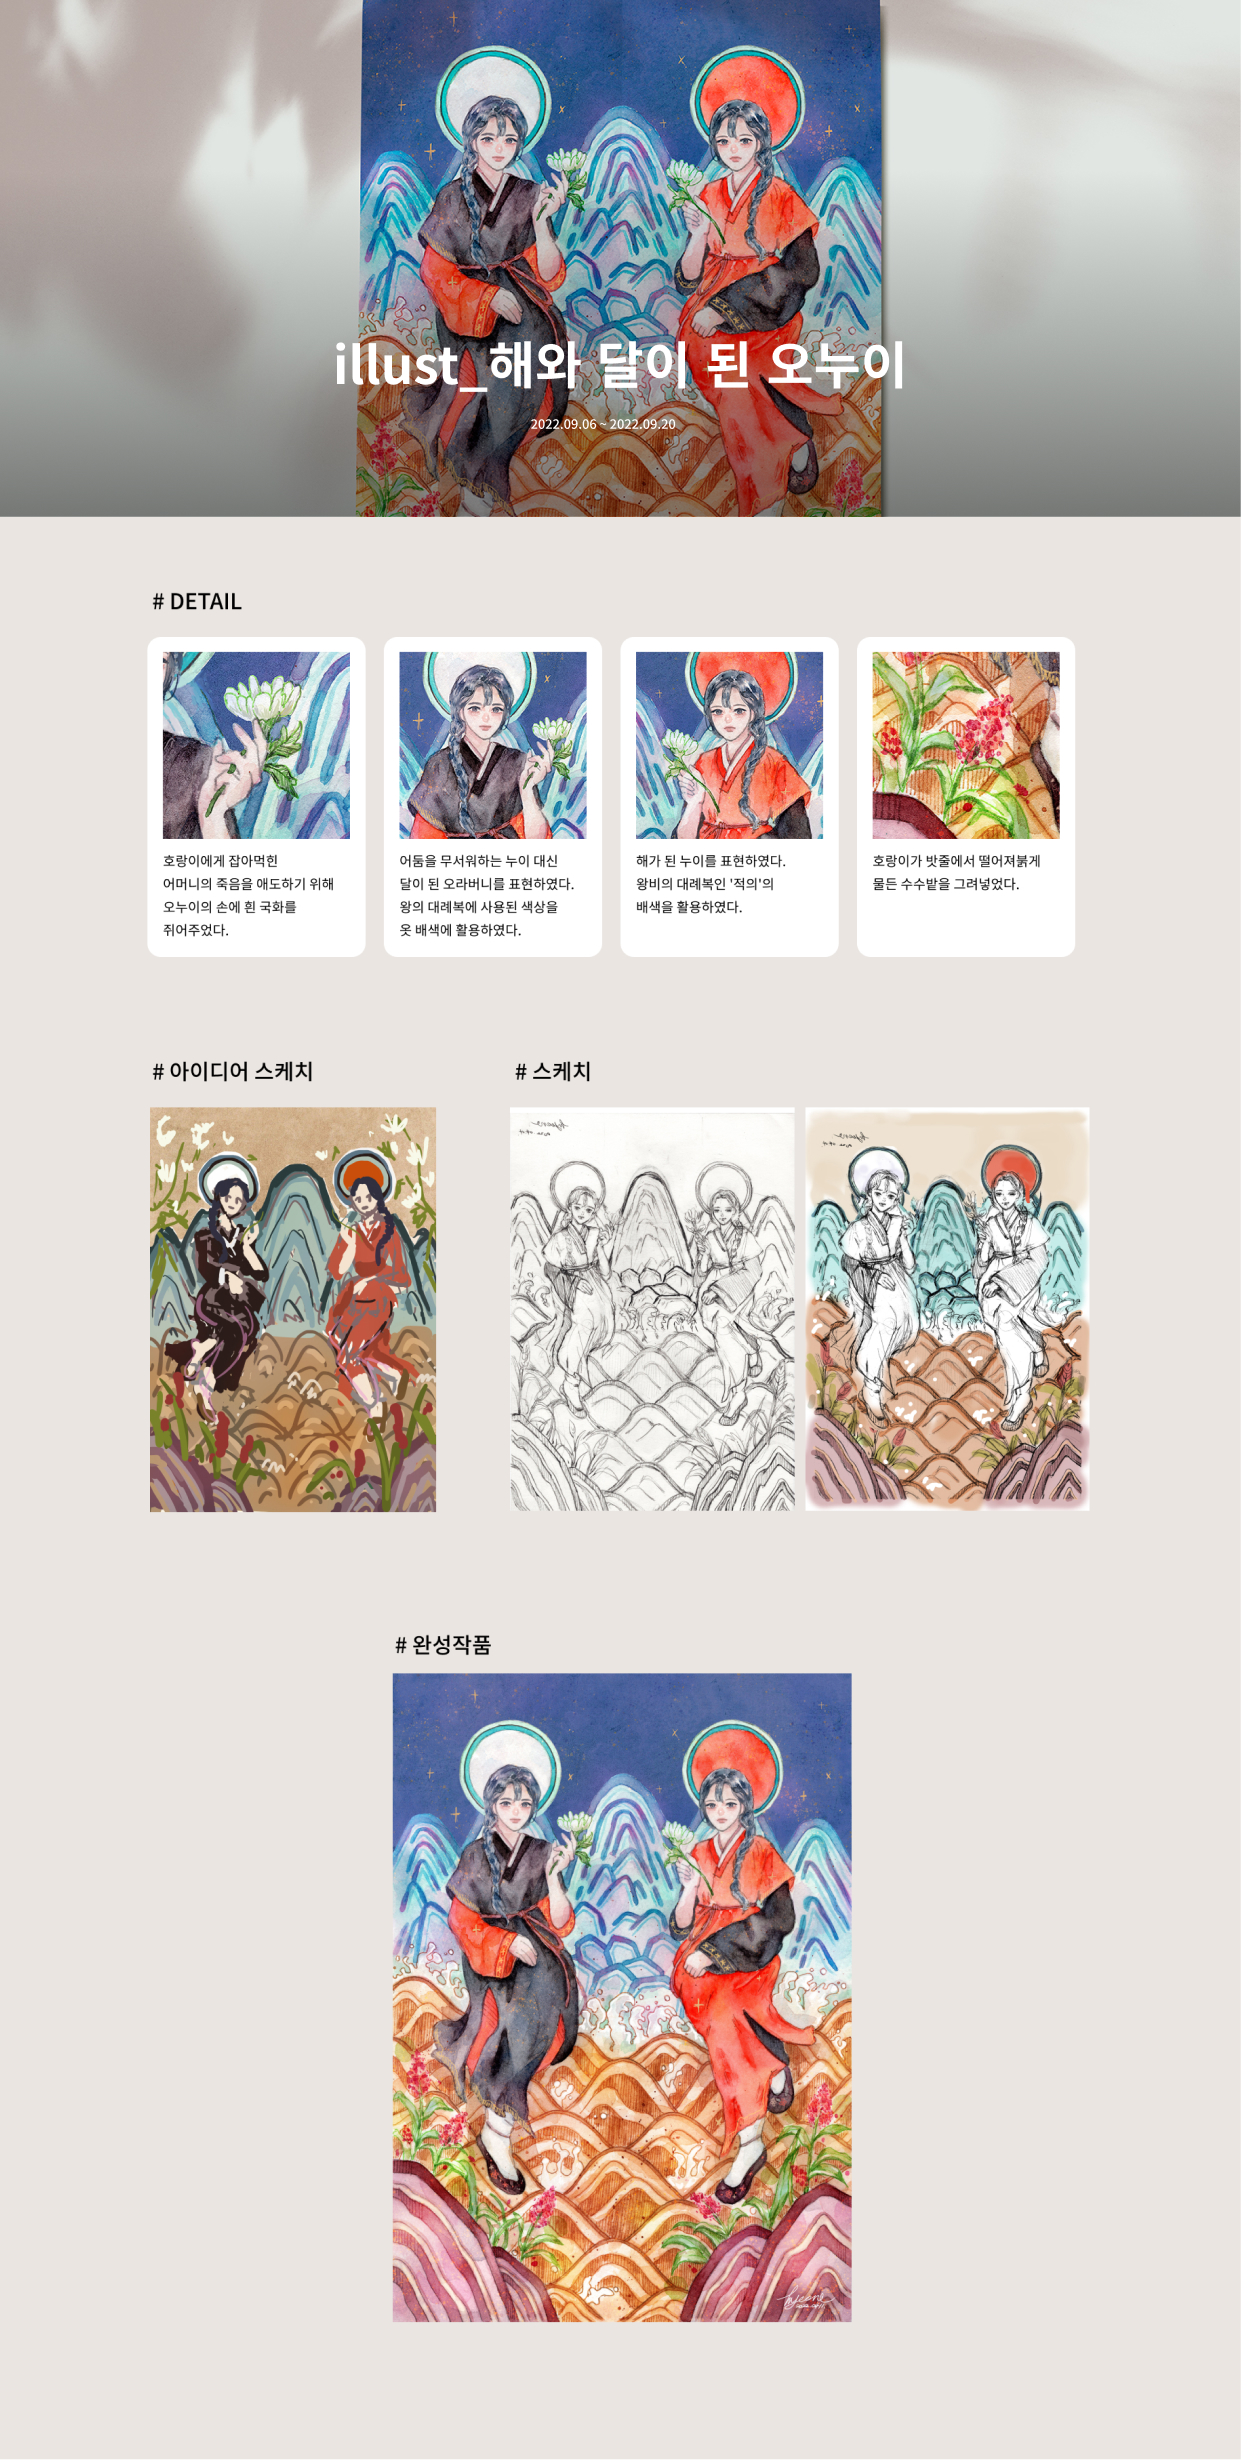
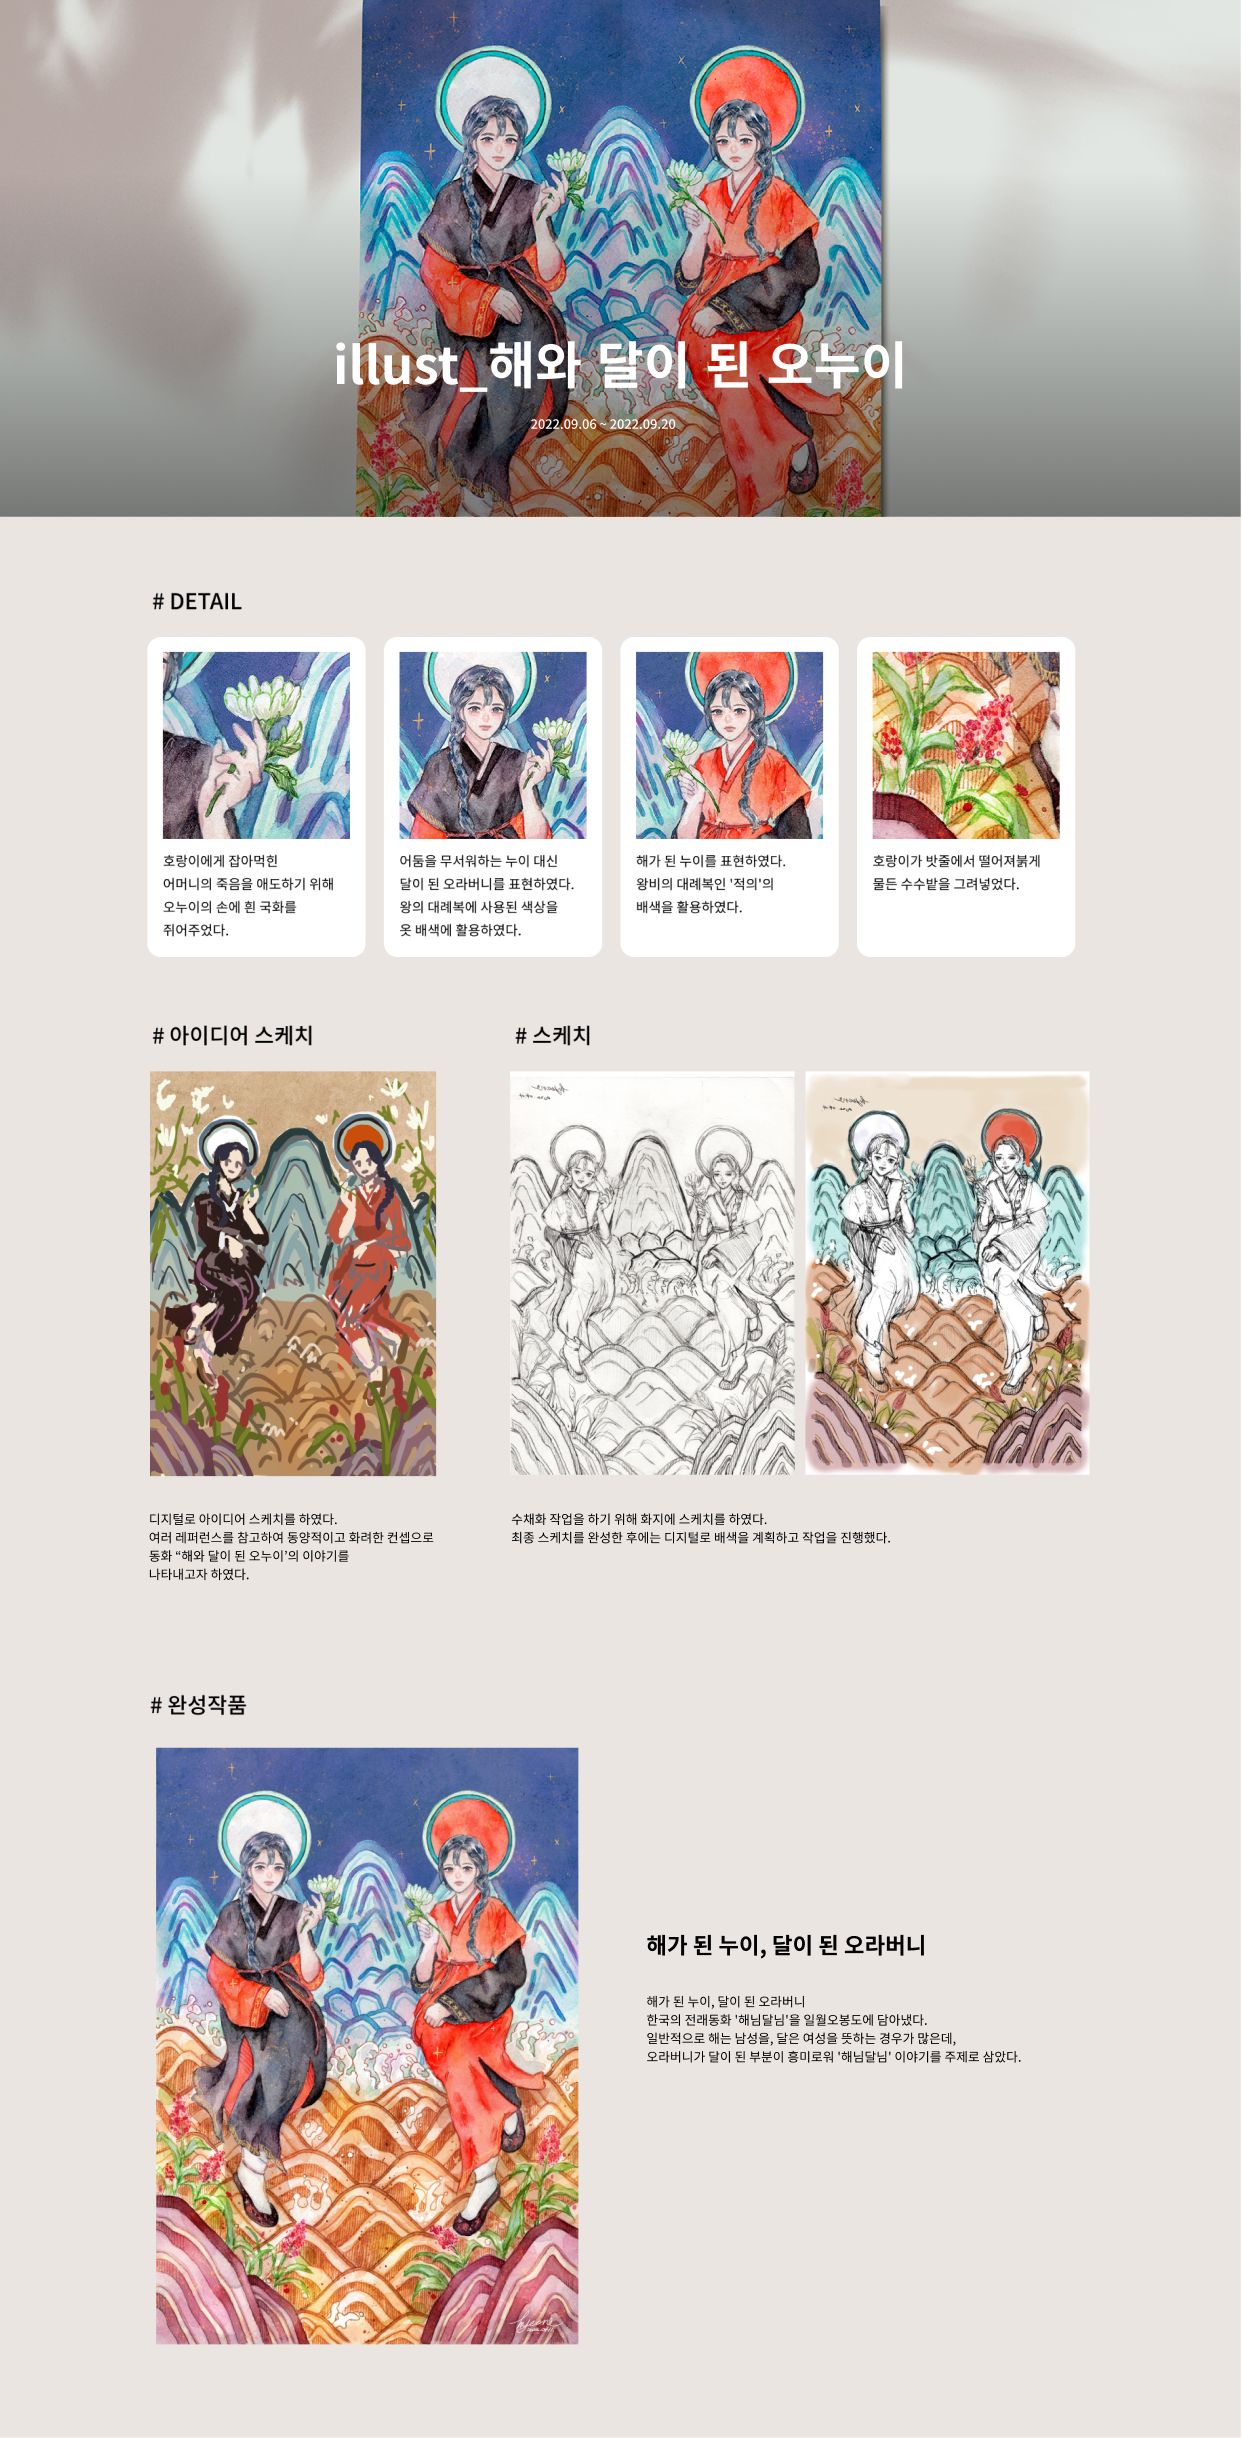
video tag add
mp4 github NOT upload

Changed region(s): [[0.1224, 0.2182, 0.8873, 0.9664], [0.2754, 0.0312, 0.7343, 0.2182], [0.7037, 0.2494, 0.8567, 0.4053]]

diff --git a/index.html b/index.html
@@ -121,7 +121,7 @@
             오누이의 어머니의 죽음을 애도하기 위해 오누이의 손에 흰국화를 쥐어주었다.
           </p>
           <ul class="tag">
-            <li class="tag__list">Adobe XD</li>
+            <li class="tag__list">Watercolor</li>
             <li class="tag__list">Photoshop</li>
           </ul>
           <a href="#popup_illust">자세히 보기 ></a>
@@ -132,7 +132,7 @@
       </section>
       <section class="motion" id="motion">
         <div class="motion__visual">
-          <a href="#popup_motion"><div class="zoomin"></div></a>
+          <a href="#popup_video"><div class="zoomin"></div></a>
         </div>
         <div class="motion__txt">
           <h2>앱 광고영상 <span class="gray">Motion Graphic</span></h2>
@@ -146,7 +146,12 @@
             <li class="tag__list">Premier rush</li>
             <li class="tag__list">illustrator</li>
           </ul>
+
           <a href="#popup_motion">자세히 보기 ></a>
+          <br />
+          <br />
+          <br />
+          <a href="#popup_video">작업영상 보기 ></a>
         </div>
       </section>
       <div class="artworks" id="graphics">
@@ -154,17 +159,18 @@
           <ul>
             <a href="#popup1"><li class="artworks__box artworks__top--luka"></li></a>
             <a href="#popup2"><li class="artworks__box artworks__top--jeju"></li></a>
-            <a href="#popup3"><li class="artworks__box artworks__top--tiger"></li></a>
+            <li class="artworks__box artworks__top--tiger"></li>
             <a href="#popup4"><li class="artworks__box artworks__top--sun"></li></a>
-            <a href="#popup5"><li class="artworks__box artworks__top--summer"></li></a>
+            <li class="artworks__box artworks__top--summer"></li>
           </ul>
         </div>
         <div class="artworks__bottom">
           <ul>
-            <a href="#popup6"><li class="artworks__box artworks__bottom--event"></li></a>
+            <li class="artworks__box artworks__bottom--event"></li>
             <a href="#popup7"><li class="artworks__box artworks__bottom--castellevent"></li></a>
             <a href="#popup8"><li class="artworks__box artworks__bottom--castellins"></li></a>
-            <a href="#popup9"><li class="artworks__box artworks__bottom--andrew"></li></a>
+
+            <li class="artworks__box artworks__bottom--andrew"></li>
           </ul>
         </div>
         <div class="bg_line"></div>
@@ -217,8 +223,15 @@
       <div class="popup_motion__content">
         <a href="#motion" class="popup_motion__close">&times;</a>
         <section class="modal">
-          <img src="img/pop_illust.jpg" alt="img" />
+          <img src="img/pop_motion.jpg" alt="img" />
         </section>
+      </div>
+    </div>
+
+    <div class="pop popup_video" id="popup_video">
+      <div class="popup_video__content">
+        <a href="#motion" class="popup_video__close">&times;</a>
+        <video src="src/motion_220621.mp4" type="video/mp4" controls></video>
       </div>
     </div>
 
@@ -235,52 +248,52 @@
       <div class="popup2__content">
         <a href="#graphics" class="popup2__close">&times;</a>
         <section class="modal">
-          <img src="img/pop_luka.png" alt="img" />
+          <img src="img/pop_jeju.jpg" alt="img" />
         </section>
       </div>
     </div>
 
-    <div class="pop popup3" id="popup3">
+    <!-- <div class="pop popup3" id="popup3">
       <div class="popup3__content">
         <a href="#graphics" class="popup3__close">&times;</a>
         <section class="modal">
-          <img src="img/pop_luka.png" alt="img" />
+          <img src="img/pop_jeju.jpg" alt="img" />
         </section>
       </div>
-    </div>
+    </div> -->
 
     <div class="pop popup4" id="popup4">
       <div class="popup4__content">
         <a href="#graphics" class="popup4__close">&times;</a>
         <section class="modal">
-          <img src="img/pop_luka.png" alt="img" />
+          <img src="img/pop_illust.jpg" alt="img" />
         </section>
       </div>
     </div>
 
-    <div class="pop popup5" id="popup5">
+    <!-- <div class="pop popup5" id="popup5">
       <div class="popup5__content">
         <a href="#graphics" class="popup5__close">&times;</a>
         <section class="modal">
-          <img src="img/pop_luka.png" alt="img" />
+          <img src="img/pop_jeju.jpg" alt="img" />
         </section>
       </div>
-    </div>
+    </div> -->
 
-    <div class="pop popup6" id="popup6">
+    <!-- <div class="pop popup6" id="popup6">
       <div class="popup6__content">
         <a href="#graphics" class="popuup6__close">&times;</a>
         <section class="modal">
-          <img src="img/pop_luka.png" alt="img" />
+          <img src="img/pop_castellevent.jpg" alt="img" />
         </section>
       </div>
-    </div>
+    </div> -->
 
     <div class="pop popup7" id="popup7">
       <div class="popup7__content">
         <a href="#graphics" class="popup7__close">&times;</a>
         <section class="modal">
-          <img src="img/pop_luka.png" alt="img" />
+          <img src="img/pop_castellevent.jpg" alt="img" />
         </section>
       </div>
     </div>
@@ -289,19 +302,19 @@
       <div class="popup8__content">
         <a href="#graphics" class="popup8__close">&times;</a>
         <section class="modal">
-          <img src="img/pop_luka.png" alt="img" />
+          <img src="img/pop_castellins.jpg" alt="img" />
         </section>
       </div>
     </div>
 
-    <div class="pop popup9" id="popup9">
+    <!-- <div class="pop popup9" id="popup9">
       <div class="popup9__content">
         <a href="#graphics" class="popup9__close">&times;</a>
         <section class="modal">
-          <img src="img/pop_luka.png" alt="img" />
+          <img src="img/pop_jeju.jpg" alt="img" />
         </section>
       </div>
-    </div>
+    </div> -->
   </body>
   <script src="https://unpkg.co/gsap@3/dist/gsap.min.js"></script>
   <script src="src/script.js"></script>

diff --git a/css/style.css b/css/style.css
@@ -97,8 +97,8 @@ a:hover {
   .profile__skills {
     margin-bottom: 10rem;
   }
-  .profile__visual {
-    margin-bottom: 40rem;
+  .profilevisual {
+    margin-bottom: 10rem;
   }
   .market,
 .illust,
@@ -164,6 +164,7 @@ a:hover {
 .popup_uiux,
 .popup_illust,
 .popup_motion,
+.popup_video,
 .popup1,
 .popup2,
 .popup3,
@@ -186,6 +187,7 @@ a:hover {
 .popup_uiux:target,
 .popup_illust:target,
 .popup_motion:target,
+.popup_video:target,
 .popup1:target,
 .popup2:target,
 .popup3:target,
@@ -201,6 +203,7 @@ a:hover {
 .popup_uiux__content,
 .popup_illust__content,
 .popup_motion__content,
+.popup_video__content,
 .popup1__content,
 .popup2__content,
 .popup3__content,
@@ -213,7 +216,7 @@ a:hover {
   width: 76vw;
   height: 80vh;
   margin: 10vh auto;
-  background-color: #fff;
+  background-color: #000;
   box-shadow: 0 2rem 4rem rgba(0, 0, 0, 0.2);
   border-radius: 10px;
   overflow-y: scroll;
@@ -222,6 +225,7 @@ a:hover {
 .popup_uiux__content img,
 .popup_illust__content img,
 .popup_motion__content img,
+.popup_video__content img,
 .popup1__content img,
 .popup2__content img,
 .popup3__content img,
@@ -236,9 +240,29 @@ a:hover {
   align-items: flex-start;
   justify-content: center;
 }
+.popup_uiux__content video,
+.popup_illust__content video,
+.popup_motion__content video,
+.popup_video__content video,
+.popup1__content video,
+.popup2__content video,
+.popup3__content video,
+.popup4__content video,
+.popup5__content video,
+.popup6__content video,
+.popup7__content video,
+.popup8__content video,
+.popup9__content video {
+  width: 94%;
+  margin: 0 auto;
+  display: flex;
+  align-items: center;
+  justify-content: center;
+}
 .popup_uiux__close,
 .popup_illust__close,
 .popup_motion__close,
+.popup_video__close,
 .popup1__close,
 .popup2__close,
 .popup3__close,
@@ -273,6 +297,7 @@ body {
   margin: 0;
   padding: 0;
   box-sizing: border-box;
+  transition: background 1s ease;
   width: 100vw;
   scroll-behavior: smooth;
 }
@@ -670,7 +695,7 @@ body {
   height: 32rem;
   position: relative;
   left: 14%;
-  animation: rolling-right 100s linear infinite;
+  animation: rolling-right 130s linear infinite;
   will-change: transform;
   white-space: nowrap;
 }
@@ -699,7 +724,7 @@ body {
 .artworks__bottom {
   width: 200rem;
   height: 32rem;
-  animation: rolling-left 100s linear infinite;
+  animation: rolling-left 130s linear infinite;
   will-change: transform;
   white-space: nowrap;
 }
@@ -749,7 +774,7 @@ body {
   background-size: contain;
   background-image: url(../img/contactme.svg);
   margin-top: -32rem;
-  animation: text-scrolling 14s linear infinite;
+  animation: text-scrolling 30s linear infinite;
   will-change: transform;
   white-space: nowrap;
 }

diff --git a/scss/style.scss b/scss/style.scss
@@ -17,7 +17,7 @@ body {
   margin: 0;
   padding: 0;
   box-sizing: border-box;
-  // transition: background 1s ease;
+  transition: background 1s ease;
   width: 100vw;
   scroll-behavior: smooth;
 }
@@ -417,7 +417,7 @@ body {
     position: relative;
     left: 14%;
 
-    animation: rolling-right 100s linear infinite;
+    animation: rolling-right 130s linear infinite;
     will-change: transform;
     // position: relative;
     white-space: nowrap;
@@ -451,7 +451,7 @@ body {
     width: 200rem;
     height: 32rem;
 
-    animation: rolling-left 100s linear infinite;
+    animation: rolling-left 130s linear infinite;
     will-change: transform;
     // position: relative;
     white-space: nowrap;
@@ -507,7 +507,7 @@ body {
     margin-top: -32rem;
 
     // position: absolute;
-    animation: text-scrolling 14s linear infinite;
+    animation: text-scrolling 30s linear infinite;
     will-change: transform;
     // position: relative;
     white-space: nowrap;

diff --git a/scss/pages/_popup.scss b/scss/pages/_popup.scss
@@ -1,6 +1,7 @@
 .popup_uiux,
 .popup_illust,
 .popup_motion,
+.popup_video,
 .popup1,
 .popup2,
 .popup3,
@@ -34,7 +35,7 @@
 
     margin: 10vh auto;
 
-    background-color: $color--white;
+    background-color: $color--black;
     box-shadow: 0 2rem 4rem rgba($color: #000000, $alpha: 0.2);
     border-radius: 10px;
     overflow-y: scroll;
@@ -44,6 +45,14 @@
       width: 76vw;
       display: flex;
       align-items: flex-start;
+      justify-content: center;
+    }
+
+    video {
+      width: 94%;
+      margin: 0 auto;
+      display: flex;
+      align-items: center;
       justify-content: center;
     }
   }

diff --git a/scss/components/_fonts.scss b/scss/components/_fonts.scss
@@ -83,8 +83,8 @@ a {
       margin-bottom: 10rem;
     }
 
-    &__visual {
-      margin-bottom: 40rem;
+    &visual {
+      margin-bottom: 10rem;
     }
   }
 
